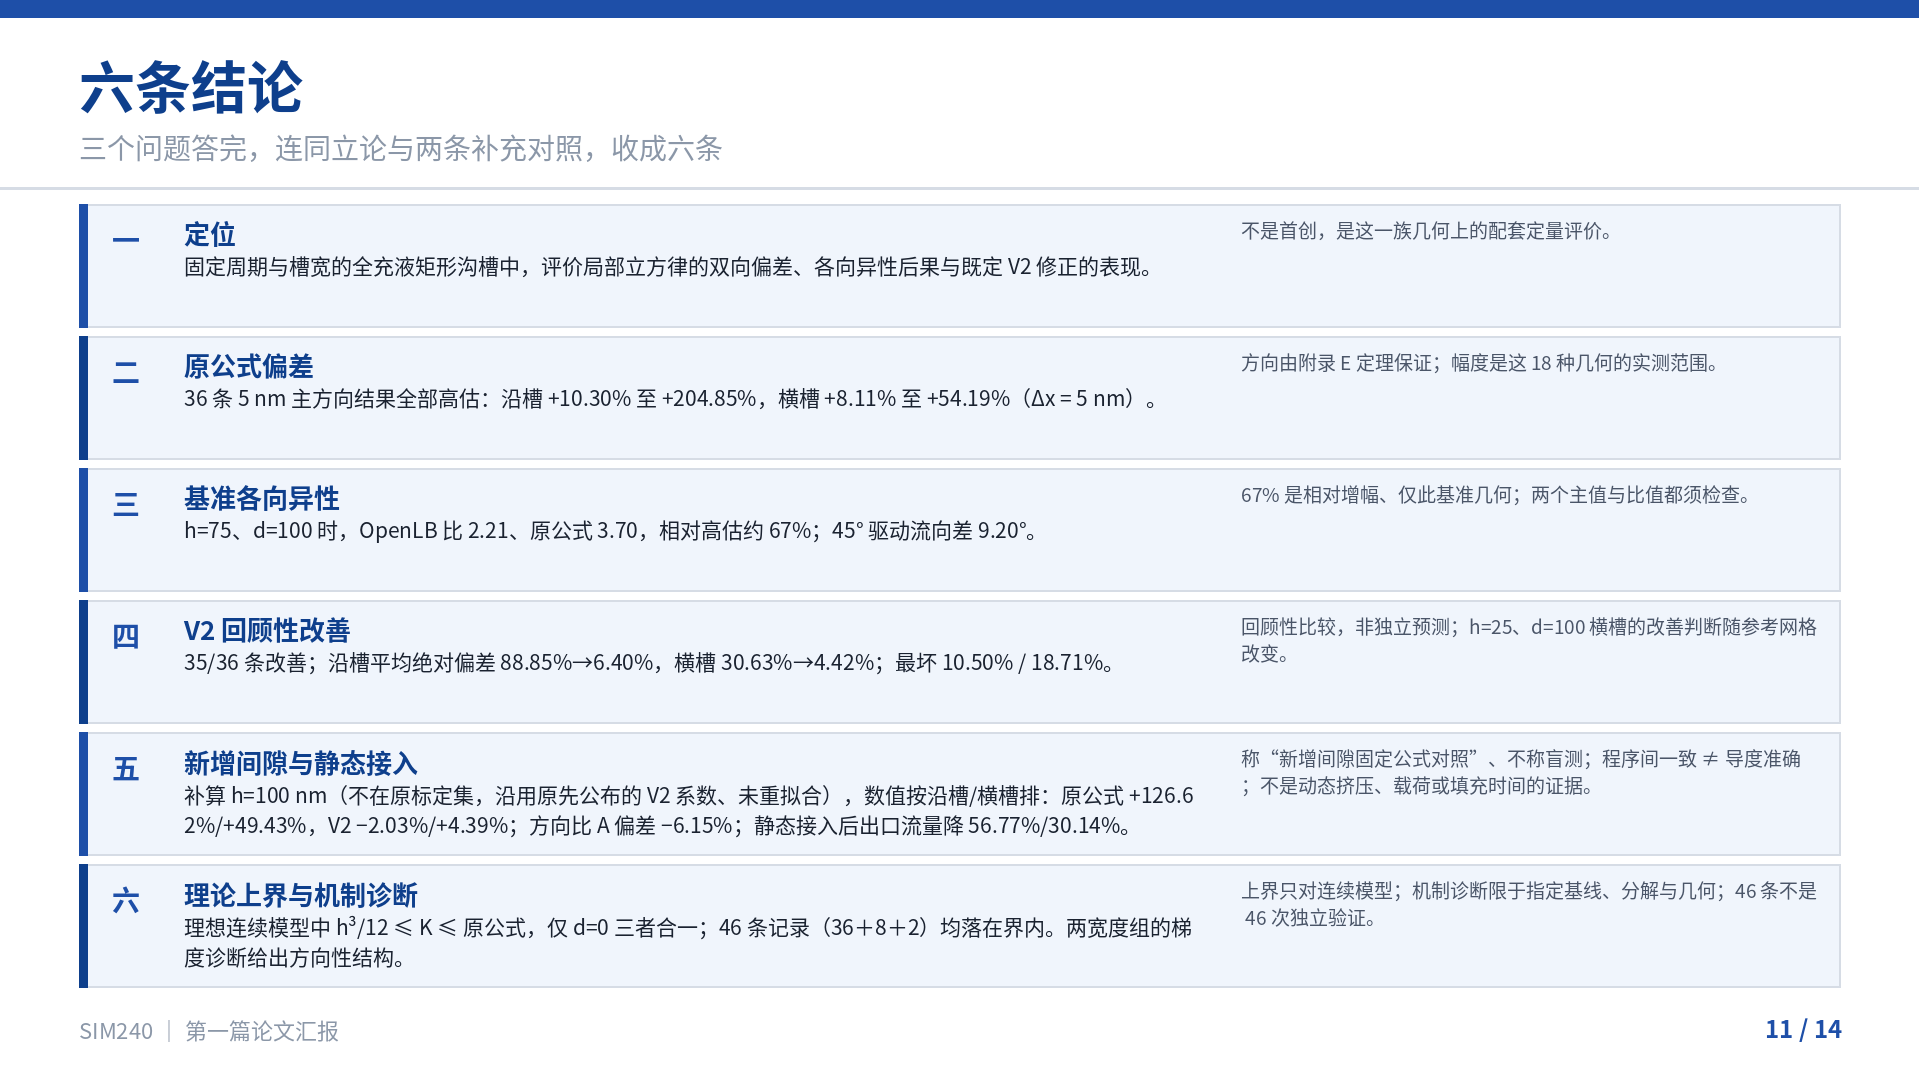
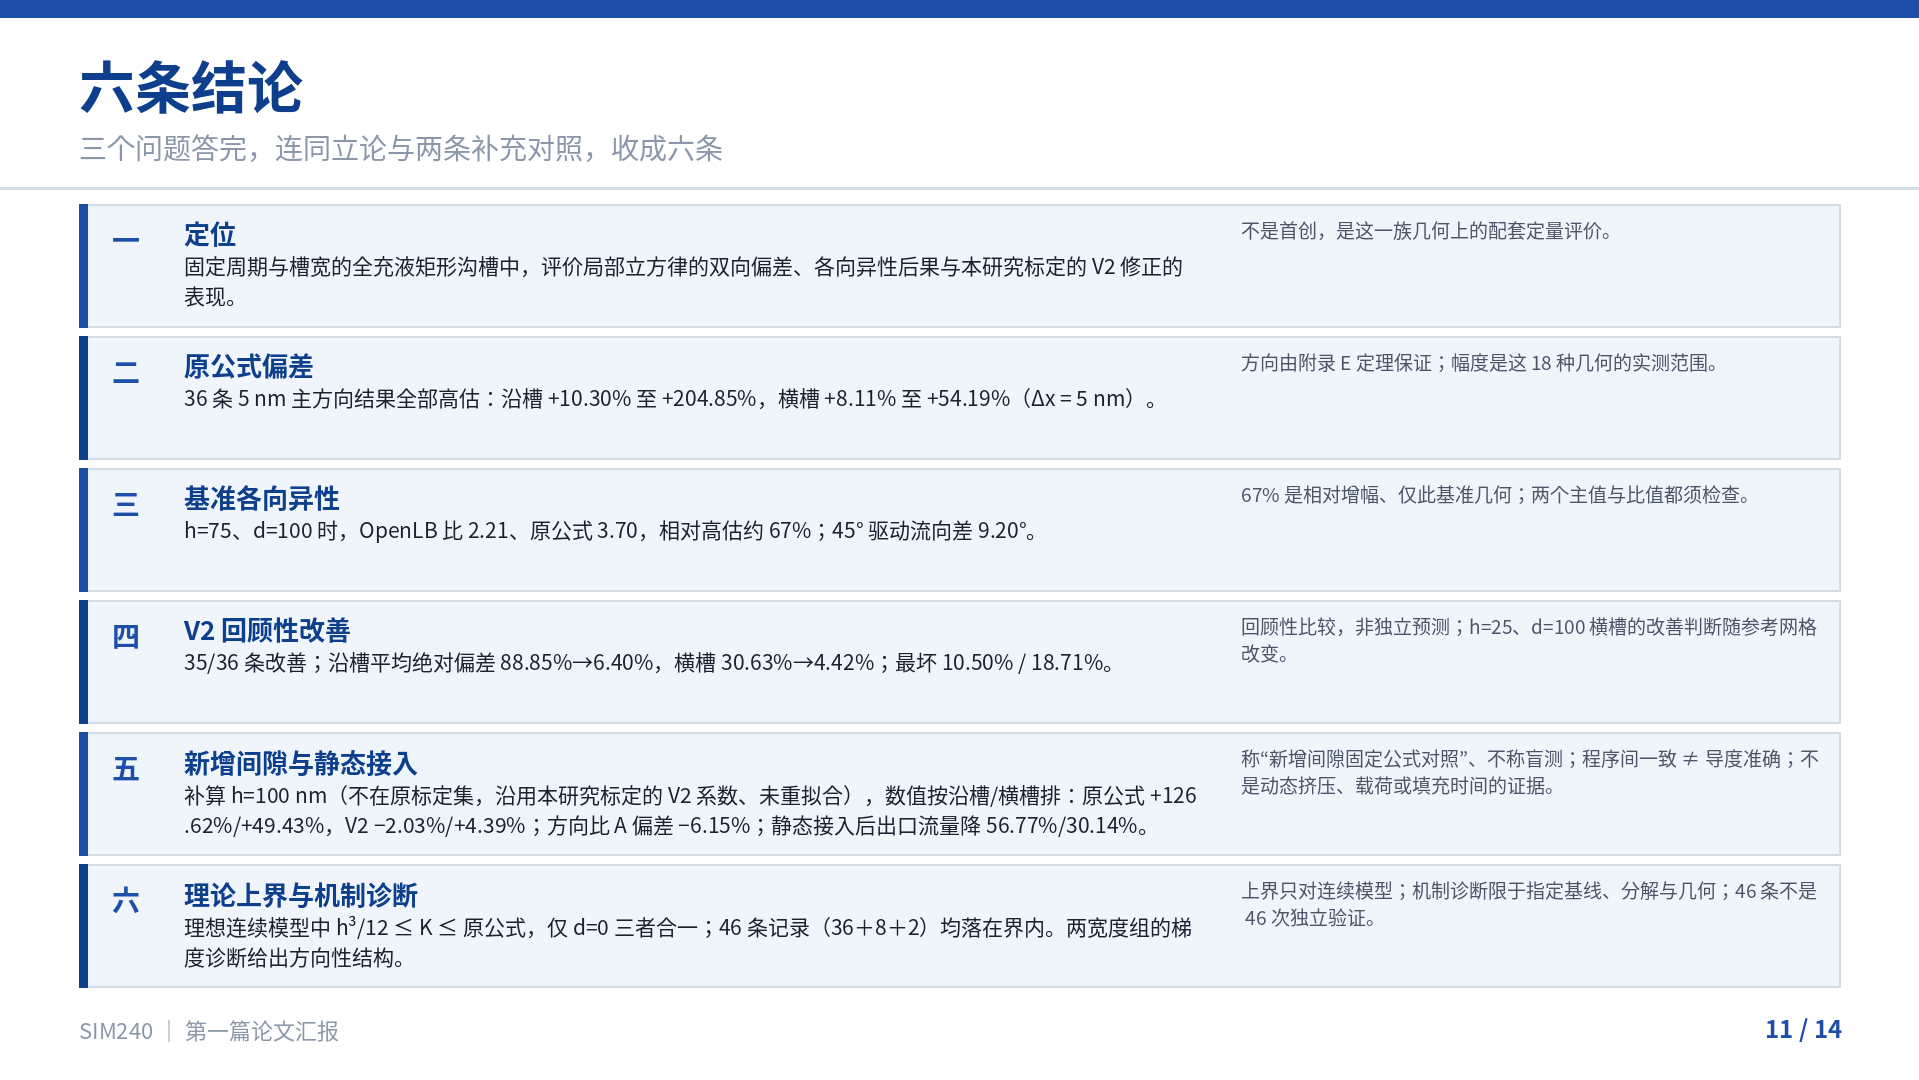
docs: sync first-paper asset previews and GitHub reading links

diff --git a/docs/reports/PAPER1_GITHUB_ASSETS_20261112/REPORT.md b/docs/reports/PAPER1_GITHUB_ASSETS_20261112/REPORT.md
@@ -1,0 +1,25 @@
+# 第一篇图件与汇报文件：补齐及GitHub显示核对
+
+2026-11-12。用户明确要求按既有缺项清单补齐第一篇图件和汇报文件，再核对GitHub图文显示。目标为已知公开的yuanyuanxu1022/SIM240之main，本轮授权限4张正文图、S1中英PNG/PDF/SVG六件、PPT及HTML两件和必要阅读入口/预览同步。没有重新发布被移出的内部审查原件，也不包含第三方文献PDF、大型场或新科研数据。
+
+## 初始核查与实际修复
+
+实时GitHub API核对起点21610d4d05c53c33923a84b503542f71c5ce0635：既有12项缺件已经被其他轮次补入，Git blob与本地逐项一致，总2307577字节；无需重复上传。HTML引用的14张PNG预览也均已在起点且与本地相同。旧首页仍写“尚未上传”，属于过期说明。
+
+目视抽查发现实际显示不一致：PPT与HTML文字已使用“本研究标定”，第2、9、11页PNG仍分别显示“既定/公布/原先公布”等旧语句。本轮从现有PPT使用项目原render_preview.py重新导出预览，仅替换这三张PNG；PPT与HTML原字节不变，另11张预览不变。三张新预览已逐张目视核对，措辞与现有PPT对应，未重排或改写幻灯片。图片为原工具的轻量预览，不等于PowerPoint原生渲染或新的科学终审。
+
+新增两个GitHub原生Markdown阅读入口：本目录README集中展示4张主图与S1中英图件；PPT目录README按实际页码展示14页预览并提供下载入口。HTML文件在GitHub文件页通常作为源码展示；本轮未启用网站托管；不将HTML源码页称为在线网页，HTML原件保持不变。下载后保持HTML与preview目录相对位置即可使用。
+
+## 核对范围
+
+- ASSET_MANIFEST.json记录12项请求文件及14张预览最终SHA256/字节。
+- 原有18项科学输出清单全部与本地指纹匹配，主稿、补充、结论、参数与数值未改。
+- 两个新阅读页和首页所列本地链接无缺失目标；PPT压缩包完整、14页。
+- 通过GitHub服务器实际Markdown渲染返回确认正文存在4个图像元素；20个GitHub托管PNG地址（4主图、2个S1 PNG、14预览）在修改前均HTTP200、可解码且与本地字节相同。推送后再按新提交核对。
+- 浏览器运行时无可连接后端，故没有GitHub浏览器截图验收。不把HTTP/服务端渲染检查说成在浏览器目视检查；本地新PNG目视检查与此分别记录。
+
+LOCAL_CHECKS.json为提交前核对记录。推送后独立核验本次commit、changed-file blobs、26项图件/预览及GitHub渲染链接，并保存REMOTE_CHECKS.json；以实际结果为准。
+
+## 隔离与边界
+
+使用独立工作树codex/paper1-assets-20261112，保留主工作区已有修改。本轮仅提交阅读页、三张预览、相关清单与简短状态/交接更新；不重新纳入近期移出的内部审查资料，不修改导师分支或另一个协作库。用户本轮明确要求的原12项已在远端而原字节保留；二进制排除规则不扩大到其他媒体。无编译/求解/拟合/新run_id、新Gate或投稿。

diff --git a/docs/reports/PPT_论文汇报_20261109/README.md b/docs/reports/PPT_论文汇报_20261109/README.md
@@ -1,0 +1,63 @@
+# 第一篇论文汇报：14页图文预览
+
+[下载 PowerPoint](论文汇报.pptx) · [HTML 伴读文件](PPT全文_14页.html) · [第一篇图件入口](../PAPER1_GITHUB_ASSETS_20261112/README.md)
+
+本页可在 GitHub 直接阅读。HTML 文件在 GitHub 文件页通常显示源码；下载后在浏览器打开，并保持 `preview/` 文件夹与它处于同一目录。也可下载整个仓库 ZIP 后打开。
+
+以下图片按实际幻灯片页码排列，不按生成脚本的函数名编号。第2、9、11页预览已从现有PPT重新生成，以同步“本研究标定”的措辞；PPT和HTML正文原文件均未修改。图片沿用项目现有轻量预览程序，完整展示以下载的PPT为准。
+
+## 第1页：封面
+
+![第1页：封面](preview/p1.png)
+
+## 第2页：研究问题与对象
+
+![第2页：研究问题与对象](preview/p2.png)
+
+## 第3页：这个公式是怎么来的
+
+![第3页：这个公式是怎么来的](preview/p3.png)
+
+## 第4页：先证明一件事：高估不是偶然
+
+![第4页：先证明一件事：高估不是偶然](preview/p4.png)
+
+## 第5页：怎么把这个必然性量出来
+
+![第5页：怎么把这个必然性量出来](preview/p5.png)
+
+## 第6页：问题②　到底高估多少
+
+![第6页：问题②　到底高估多少](preview/p6.png)
+
+## 第7页：地板在哪里：真实值夹在两堵墙之间
+
+![第7页：地板在哪里：真实值夹在两堵墙之间](preview/p7.png)
+
+## 第8页：高估这么多，实际意味着什么
+
+![第8页：高估这么多，实际意味着什么](preview/p8.png)
+
+## 第9页：修正：能压到多少，哪里压不动
+
+![第9页：修正：能压到多少，哪里压不动](preview/p9.png)
+
+## 第10页：问题③　两个方向是否等幅
+
+![第10页：问题③　两个方向是否等幅](preview/p10.png)
+
+## 第11页：六条结论
+
+![第11页：六条结论](preview/p11.png)
+
+## 第12页：四条边界：六条结论各自能说到哪一步
+
+![第12页：四条边界：六条结论各自能说到哪一步](preview/p12.png)
+
+## 第13页：还需回答的问题
+
+![第13页：还需回答的问题](preview/p13.png)
+
+## 第14页：这张数表怎么用：三个能、四个前提、五条红线
+
+![第14页：这张数表怎么用：三个能、四个前提、五条红线](preview/p14.png)

diff --git a/docs/reports/PAPER1_GITHUB_ASSETS_20261112/README.md b/docs/reports/PAPER1_GITHUB_ASSETS_20261112/README.md
@@ -1,0 +1,41 @@
+# 第一篇图件与汇报文件
+
+2026-11-12按既有缺项清单复核：4张正文主图、S1中英文PNG/PDF/SVG六份图件、PPT与HTML两份汇报文件，共12项，均已在远端且与本地字节一致。本轮补正过时的缺项说明，并同步第2、9、11页预览。
+
+- [中文投稿正文](../PAPER1_submission_manuscript_20261110/SIM240_submission_CN.md)
+- [英文投稿正文](../PAPER1_submission_manuscript_20261110/SIM240_submission_EN.md)
+- [中文补充材料](../SIM240_Supplementary_Methods_20261024/SUPPLEMENTARY_METHODS.md)
+- [英文补充材料](../SIM240_Supplementary_Methods_20261024/SUPPLEMENTARY_METHODS_EN_20261028.md)
+- [14页汇报图文预览](../PPT_论文汇报_20261109/README.md)
+- [下载PPT](../PPT_论文汇报_20261109/论文汇报.pptx)
+- [HTML伴读件](../PPT_论文汇报_20261109/PPT全文_14页.html)：下载后与preview文件夹一起使用。
+
+## 正文图1
+
+![正文图1](../../../figures/paper/Fig1_device_and_unitcell.png)
+
+## 正文图2
+
+![正文图2](../../../figures/paper/Fig4_K_and_anisotropy.png)
+
+## 正文图3
+
+![正文图3](../../../figures/paper/Fig7_error_vs_gap.png)
+
+## 正文图4
+
+![正文图4](../../../figures/paper/Fig8_error_map.png)
+
+## 补充图S1：中文
+
+![补充图S1中文](../SIM240_Supplementary_Methods_20261024/figures/Figure_S1_paired_widths_CN.png)
+
+[PDF](../SIM240_Supplementary_Methods_20261024/figures/Figure_S1_paired_widths_CN.pdf) · [SVG](../SIM240_Supplementary_Methods_20261024/figures/Figure_S1_paired_widths_CN.svg)
+
+## 补充图S1：英文
+
+![补充图S1英文](../SIM240_Supplementary_Methods_20261024/figures/Figure_S1_paired_widths_EN.png)
+
+[PDF](../SIM240_Supplementary_Methods_20261024/figures/Figure_S1_paired_widths_EN.pdf) · [SVG](../SIM240_Supplementary_Methods_20261024/figures/Figure_S1_paired_widths_EN.svg)
+
+此处“齐全”仅针对上述12项及伴读图像依赖，不代表整个项目、原始场数据或所有历史链接的完整备份，也不构成数值验证或投稿放行。

diff --git a/docs/reports/AI_HANDOFF_PORTABLE_20261104.md b/docs/reports/AI_HANDOFF_PORTABLE_20261104.md
@@ -1,5 +1,11 @@
 # SIM240 项目 — 便携交接单（跨电脑/跨 AI 使用）
 
+## 第一篇图件与汇报缺项已复核，预览同步待远端验收（2026-11-12）
+
+用户明确要求补齐既有清单并检查GitHub图文。起点21610d4的API/树核对已确认12项（4主图、S1中英PNG/PDF/SVG六件、PPT/HTML）均在远端且与本地相同；14张伴读PNG依赖也齐。无需重复上传12原件。发现第2/9/11页PNG仍含旧归属措辞，已从现有PPT按原工具重生成仅三张；PPT/HTML字节及另11张预览、18项科学输出不变。修正首页过期缺件说明，新增图件与14页汇报的Markdown阅读页。证据/范围见docs/reports/PAPER1_GITHUB_ASSETS_20261112/；此条为提交前准备，远端新图片验收待推送后完成。
+
+仅在隔离工作树codex/paper1-assets-20261112提交明确图文路径和简短交接，不夹带主目录其他修改、内部审查原件、第三方PDF/原始场；导师/私有分支不动。浏览器无连接，采用GitHub服务器Markdown与图片HTTP检查，不声称GitHub截图目视验收；三张本地PNG已目视。无新计算或数值验证/run_id、无编译/求解/拟合/Gate/投稿，科学状态与FAIL保持。
+
 ## 老师14项工单已完成只读证据对表，形成有限清单（2026-11-12T17:56:34+08:00）
 
 用户授权本轮只读审查，不改稿或开算。产物PAPER1_teacher_workorder_audit_20261112/REPORT.md、WORKORDER_EVIDENCE_MATRIX.csv/json（WO-1~7、A1~7各一行，含证据/剩余/完成判据）、teacher_geometry_coverage.csv及原始读回。五件母稿SHA与authority一致，本轮未改；235项FVM绑定零漂移。老师分支HEAD ee947b6未变。本地下载的工作建议副本有标题/分隔符轻微漂移，未覆盖他人文件；原GitHub blob另存本轮remote_snapshot/work_advice_original.md。

diff --git a/docs/reports/SIM240_AI_CONTEXT.md b/docs/reports/SIM240_AI_CONTEXT.md
@@ -1,5 +1,11 @@
 # SIM240 AI CONTEXT
 
+## 第一篇图件与汇报缺项已复核，预览同步待远端验收（2026-11-12）
+
+用户明确要求补齐既有清单并检查GitHub图文。起点21610d4的API/树核对已确认12项（4主图、S1中英PNG/PDF/SVG六件、PPT/HTML）均在远端且与本地相同；14张伴读PNG依赖也齐。无需重复上传12原件。发现第2/9/11页PNG仍含旧归属措辞，已从现有PPT按原工具重生成仅三张；PPT/HTML字节及另11张预览、18项科学输出不变。修正首页过期缺件说明，新增图件与14页汇报的Markdown阅读页。证据/范围见docs/reports/PAPER1_GITHUB_ASSETS_20261112/；此条为提交前准备，远端新图片验收待推送后完成。
+
+仅在隔离工作树codex/paper1-assets-20261112提交明确图文路径和简短交接，不夹带主目录其他修改、内部审查原件、第三方PDF/原始场；导师/私有分支不动。浏览器无连接，采用GitHub服务器Markdown与图片HTTP检查，不声称GitHub截图目视验收；三张本地PNG已目视。无新计算或数值验证/run_id、无编译/求解/拟合/Gate/投稿，科学状态与FAIL保持。
+
 ## 老师14项工单已完成只读证据对表，形成有限清单（2026-11-12T17:56:34+08:00）
 
 用户授权本轮只读审查，不改稿或开算。产物PAPER1_teacher_workorder_audit_20261112/REPORT.md、WORKORDER_EVIDENCE_MATRIX.csv/json（WO-1~7、A1~7各一行，含证据/剩余/完成判据）、teacher_geometry_coverage.csv及原始读回。五件母稿SHA与authority一致，本轮未改；235项FVM绑定零漂移。老师分支HEAD ee947b6未变。本地下载的工作建议副本有标题/分隔符轻微漂移，未覆盖他人文件；原GitHub blob另存本轮remote_snapshot/work_advice_original.md。

diff --git a/README.md b/README.md
@@ -16,6 +16,6 @@
 
 ## 上传完整性与科学状态
 
-2026-11-10核查：当前两母稿、两补充、结论、两派生件及authority/MANIFEST均已上传且与本地一致，补充目录14个CSV已上传。正文4张主图、补充图S1的中英PNG/PDF/SVG共6个文件、第一篇汇报PPT/HTML尚未上传。因此当前仓库不是完整的论文图文包，也不是全部大型原始场数据的备份。第三方文献PDF与受忽略的运行目录未随本轮强制上传。
+2026-11-12复核：此前缺项清单中的正文4张主图、补充图S1中英PNG/PDF/SVG六份文件、第一篇汇报PPT/HTML，共12项已在远端且与本地一致。HTML引用的14张预览图也均已在库，本轮同步其中第2、9、11页的归属措辞。可从[图件与汇报入口](docs/reports/PAPER1_GITHUB_ASSETS_20261112/README.md)或[14页图文预览](docs/reports/PPT_论文汇报_20261109/README.md)直接阅读。该结论仅覆盖列明的图文成果，不是全部大型原始场数据或所有历史链接的完整备份；第三方文献PDF与受忽略运行目录未补传。
 
 本仓库保留真实验证边界和历史FAIL。文件上传、代码存在和编译通过分别不等于数值/物理验证完成或投稿就绪；`reference_qualified=false`、`strict_error_bound_established=false`、`submission_ready=false`保持。
